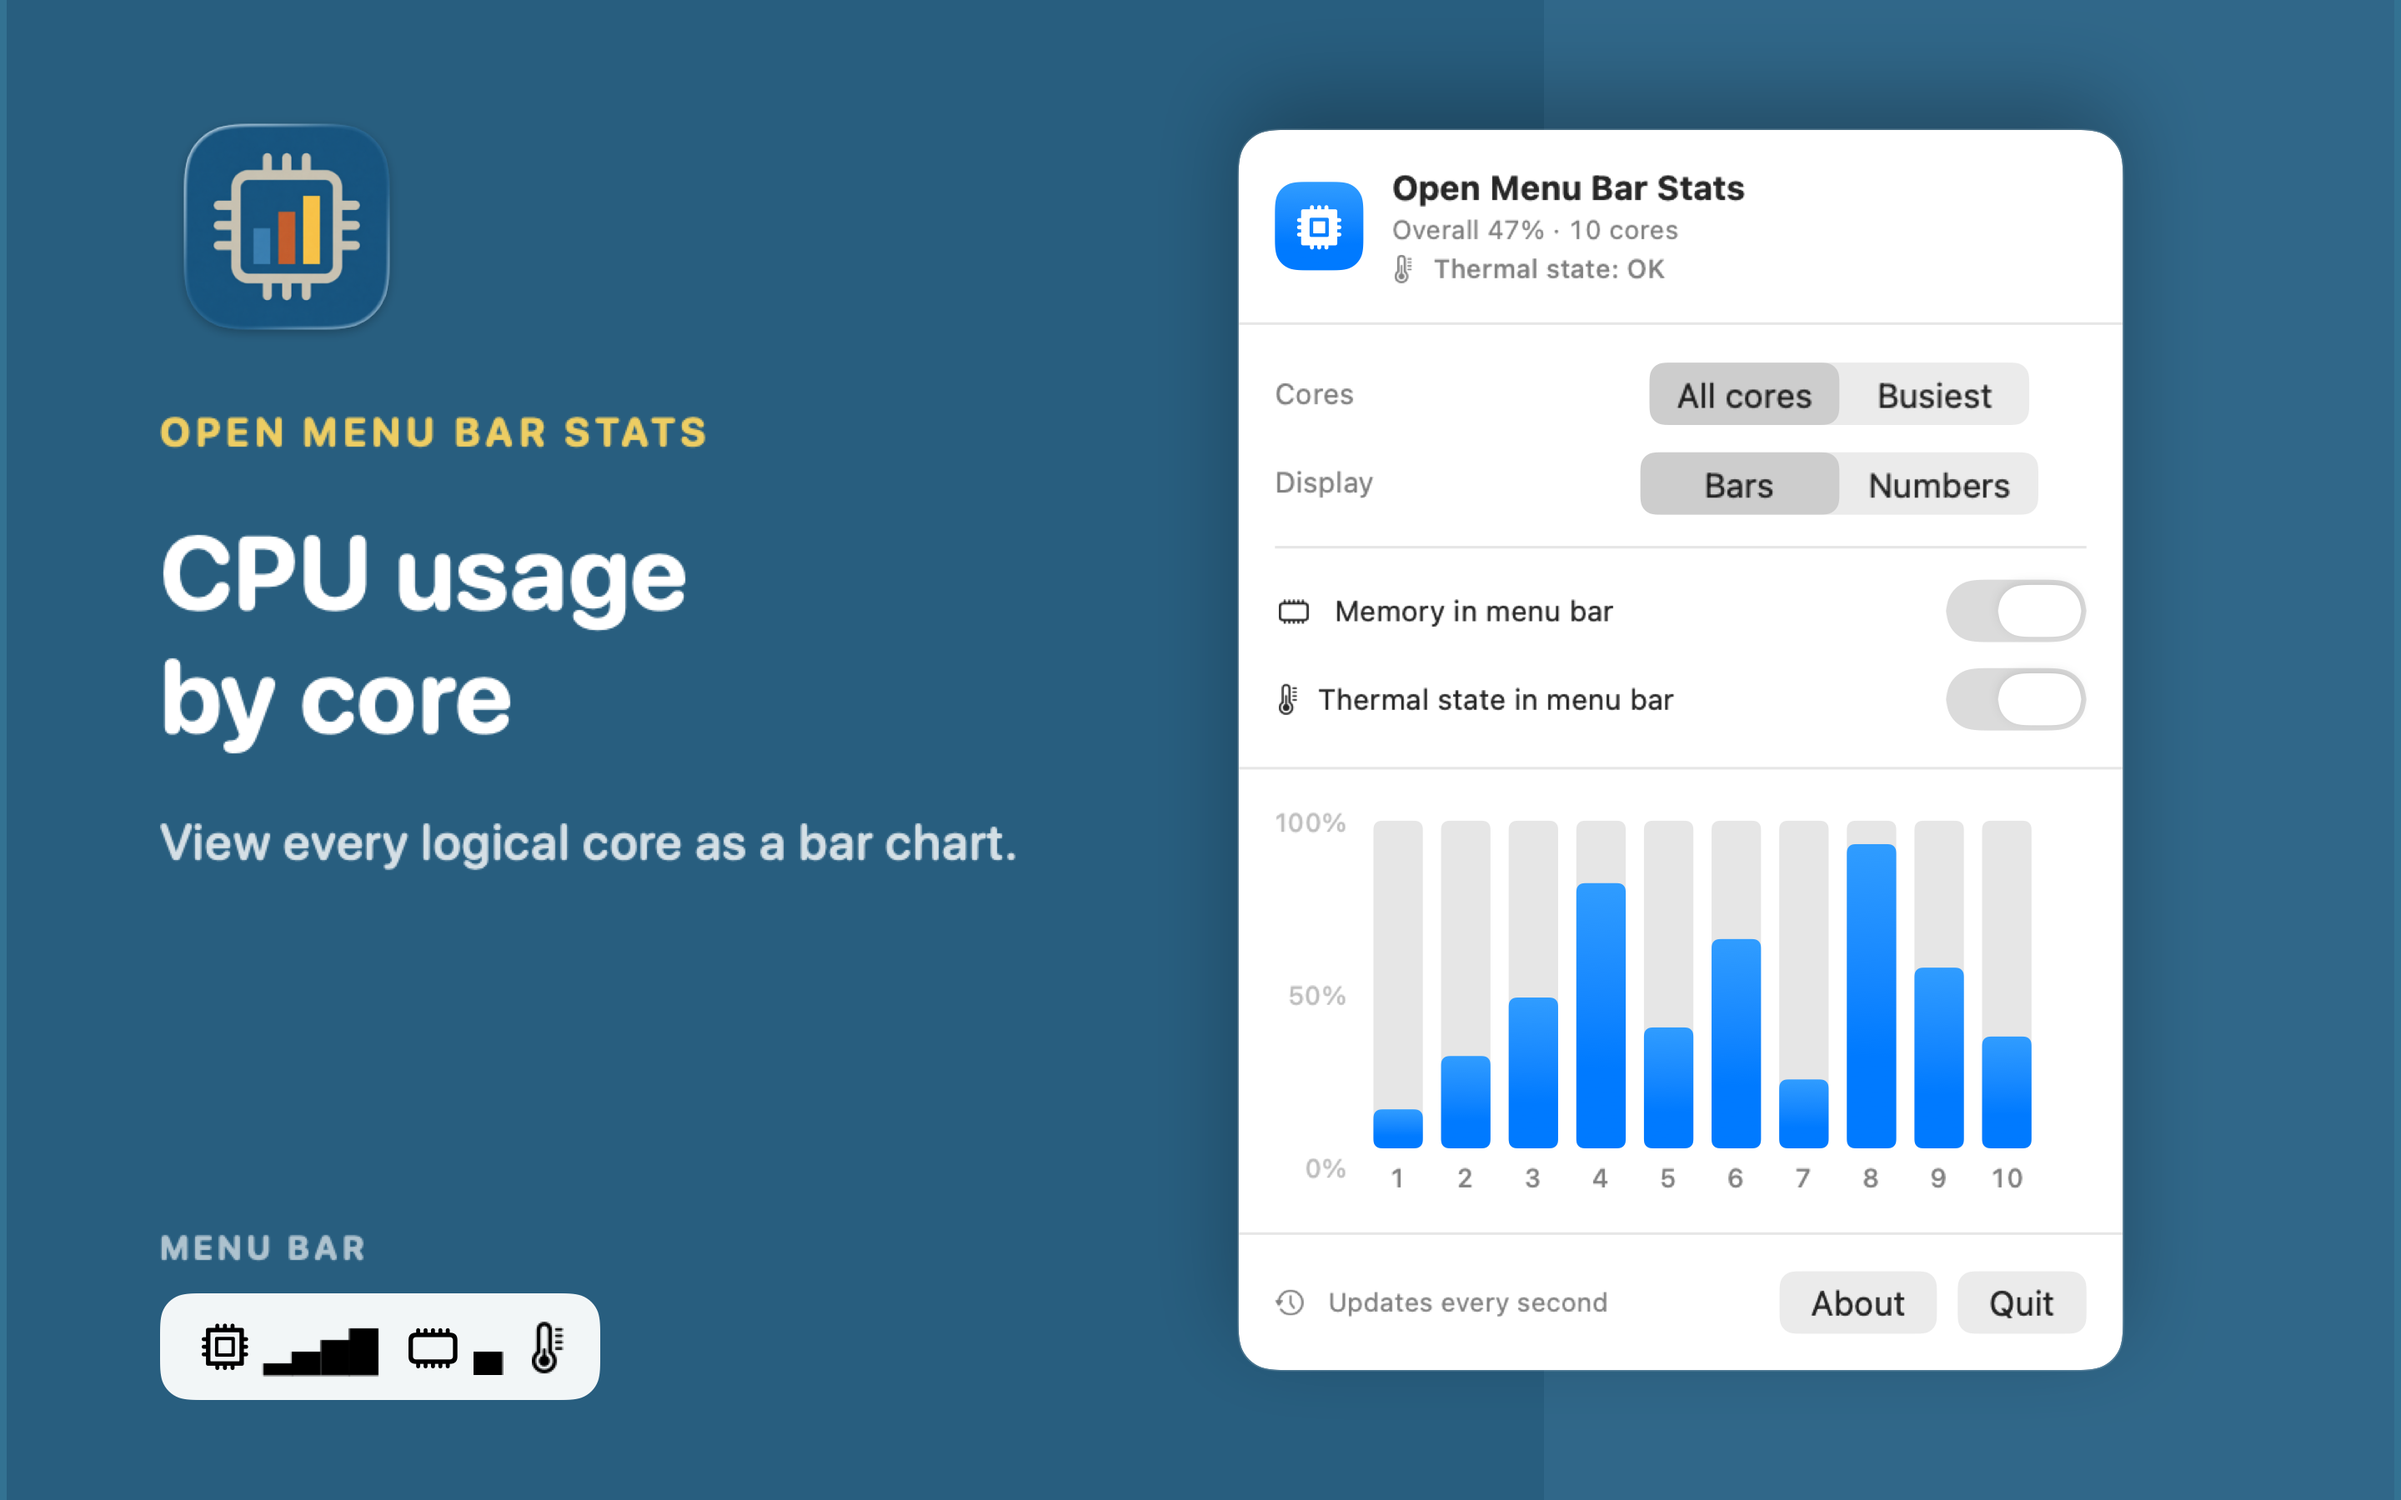
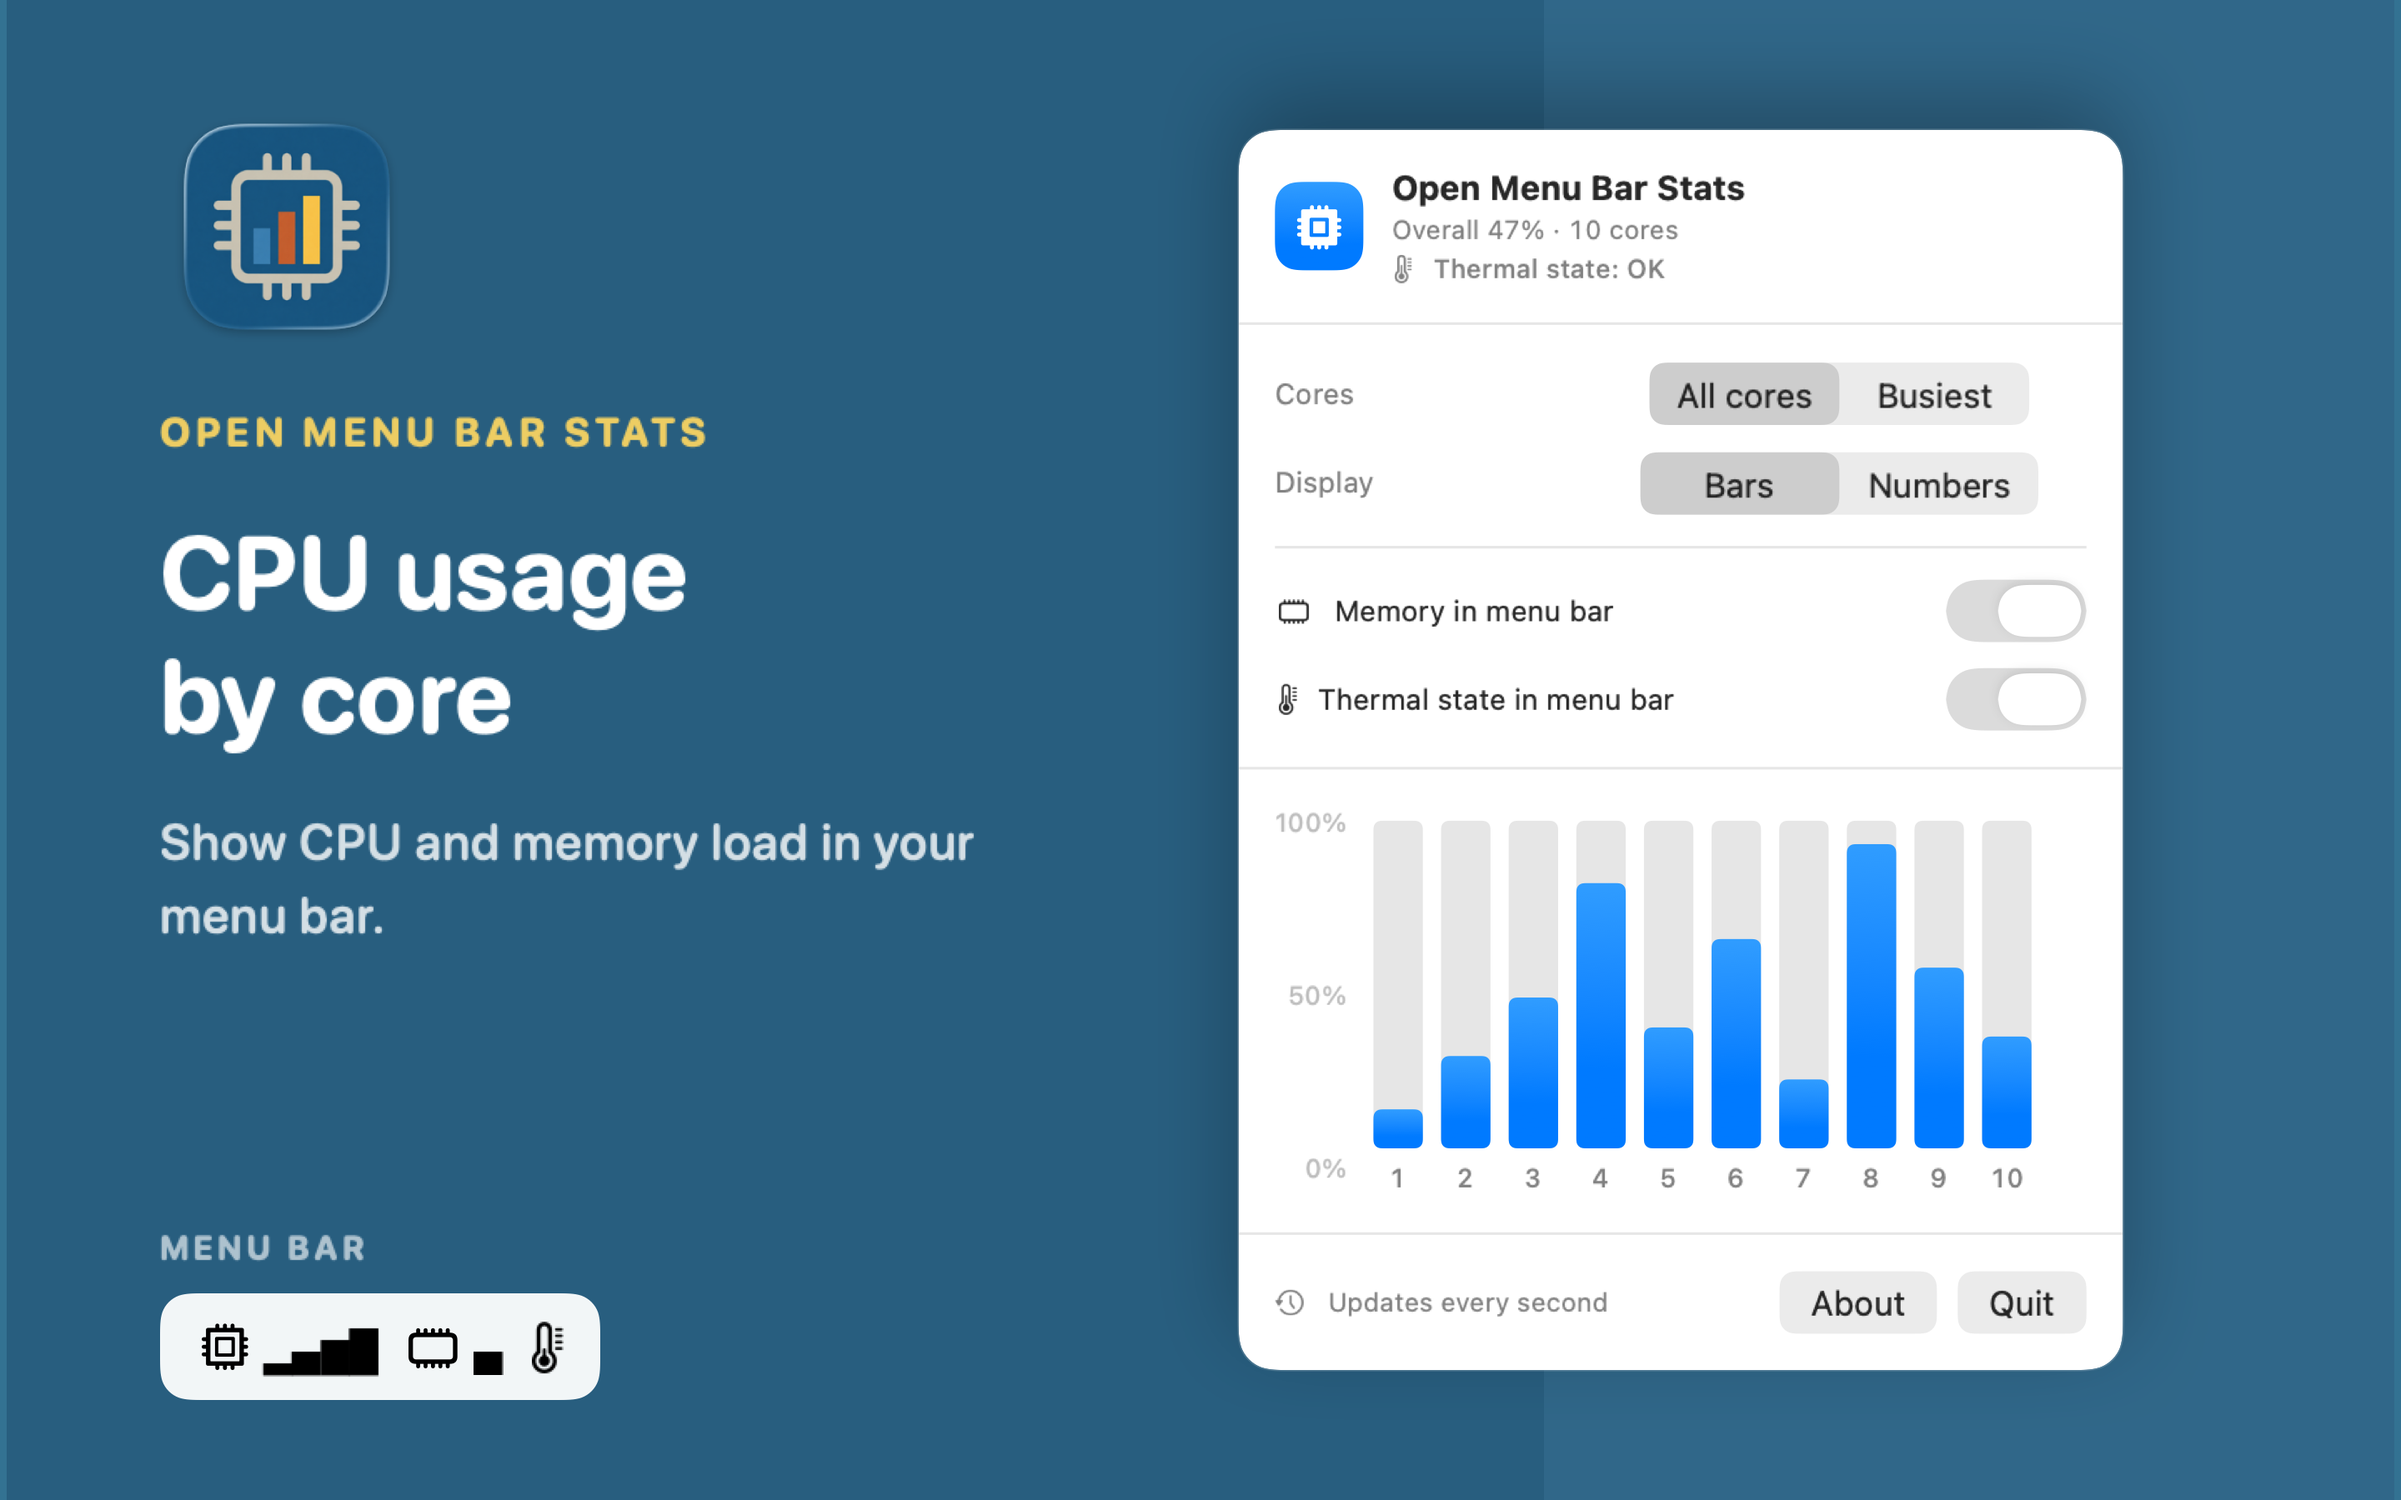
wip

Changed region(s): [[0.0625, 0.5289, 0.4062, 0.6222]]

diff --git a/MenuBarStatsTests/VisualRenderingTests.swift b/MenuBarStatsTests/VisualRenderingTests.swift
@@ -96,7 +96,7 @@ final class VisualRenderingTests: XCTestCase {
             (
                 "01-every-core.png",
                 "CPU usage\nby core",
-                "View every logical core as a bar chart.",
+                "Show CPU and memory load in your menu bar.",
                 .all,
                 .bars,
                 0.78
@@ -104,7 +104,7 @@ final class VisualRenderingTests: XCTestCase {
             (
                 "02-busiest-core.png",
                 "Busiest core",
-                "Show the most active core as a percentage.",
+                "Select between the busiest core and overall stats.",
                 .busiest,
                 .numbers,
                 0.84
